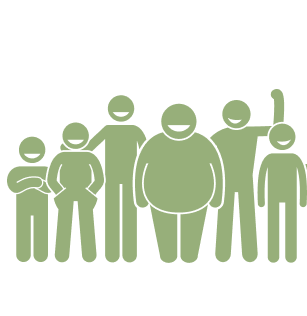
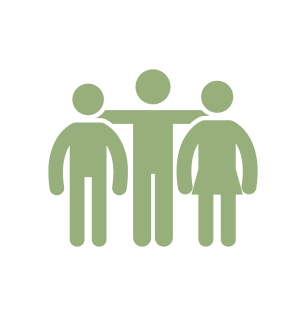
updates

Changed region(s): [[0.0, 0.1994, 1.0, 0.8544]]

diff --git a/public/tv1/styles.css b/public/tv1/styles.css
@@ -213,7 +213,7 @@ body:not(.result-mode) .header-logos {
 .right-column-top img,
 #rightColumnImage {
   max-width: 53%;
-  opacity: 0.9;
+  opacity: 0.8;
   height: auto;
   margin-left: auto; /* Push image to right edge */
   display: block; /* Make image behave as block element for margin auto */
